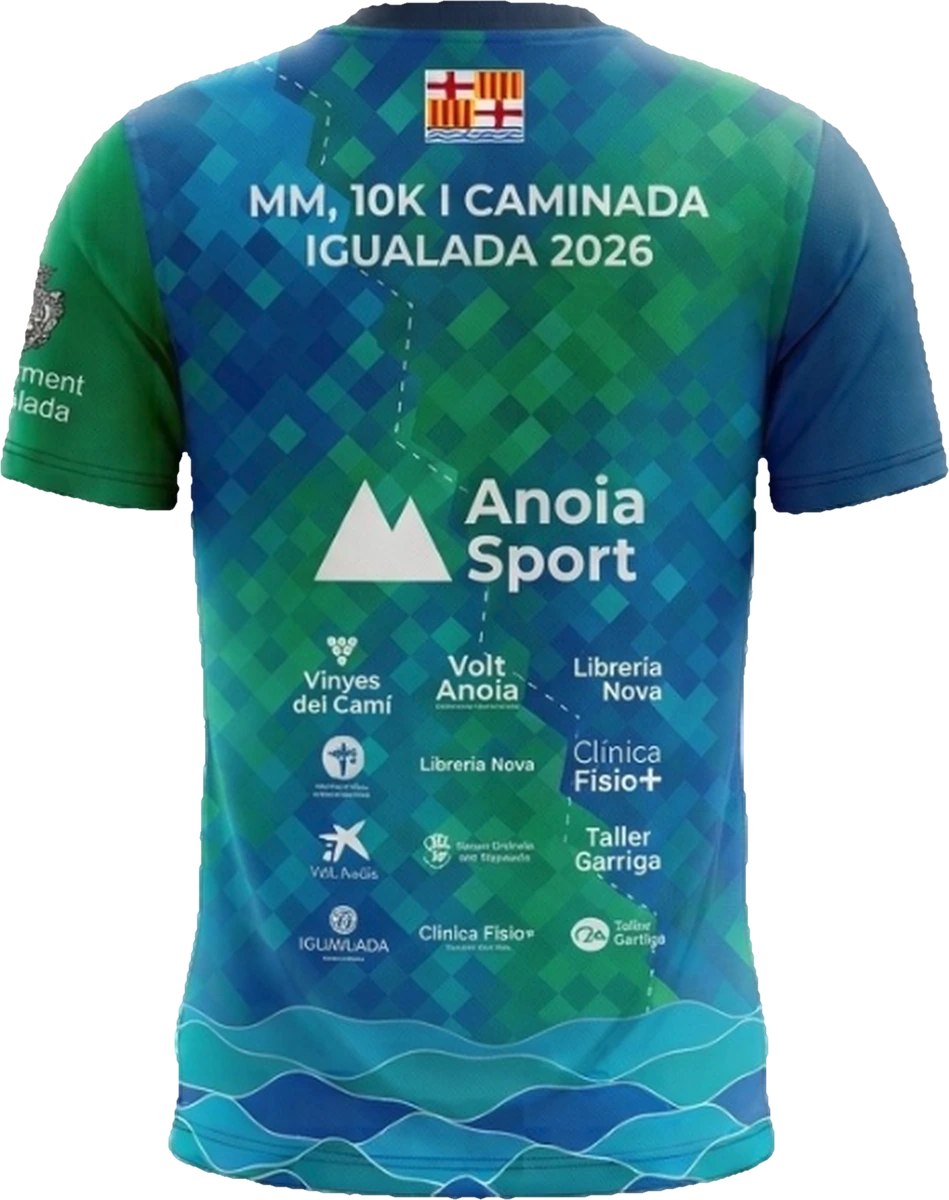
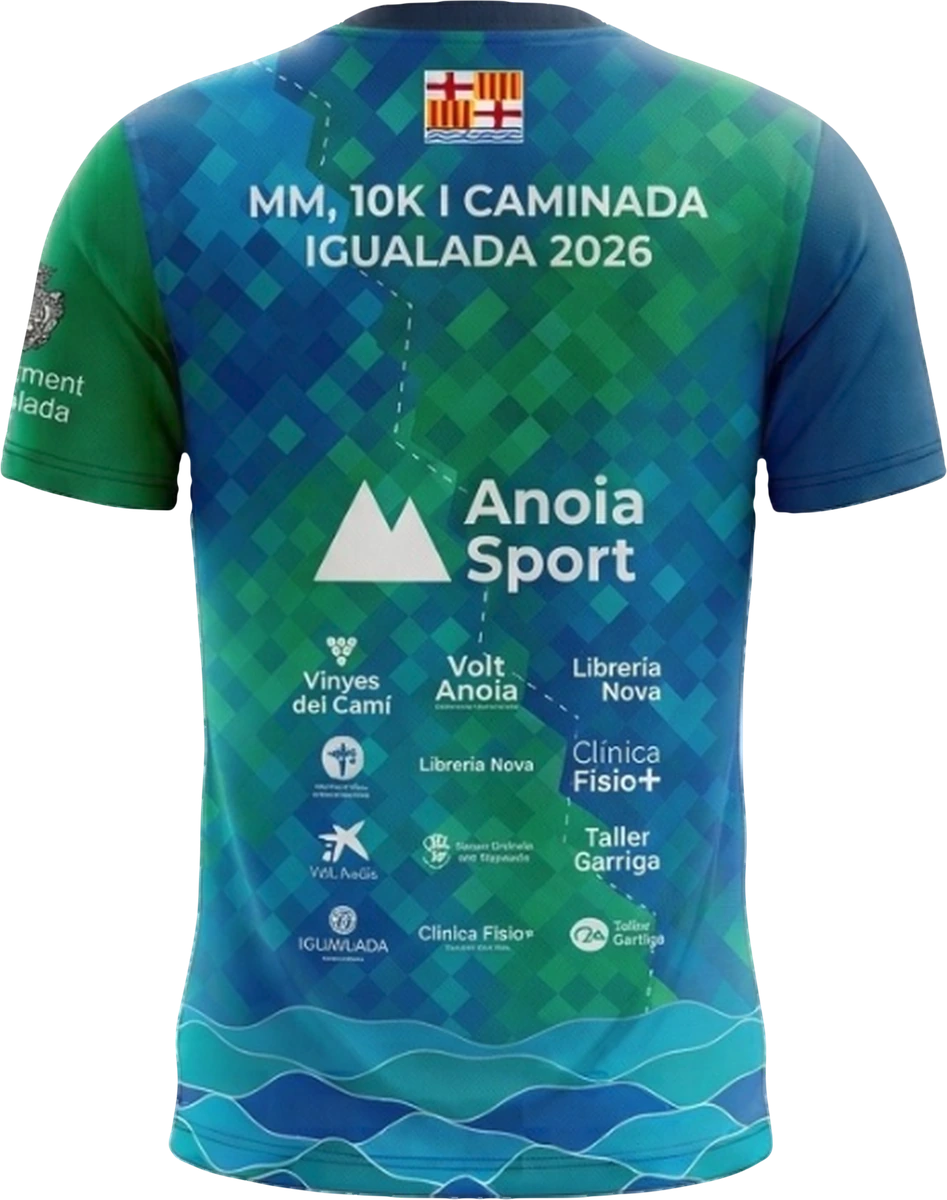
Samarreta: contorn suavitzat i vora de màniga recta a l'escut (sense queixalada ni difuminat)
El perfil ja no segueix el soroll píxel a píxel de la foto; l'escut de la màniga es manté nítid
i el fons que s'hi colava es pinta amb el blanc del mateix escut.

diff --git a/branding/samarreta/src/retalla.py b/branding/samarreta/src/retalla.py
@@ -66,8 +66,22 @@ def bg_mask(rgb: np.ndarray) -> np.ndarray:
     return bg
 
 
-def cutout(img: Image.Image) -> Image.Image:
+def smooth_sdf(fg: np.ndarray, k: float) -> np.ndarray:
+    """Distància amb signe (px de treball, + = dins) a un contorn «vectoritzat»: es treuen les
+    petites ondulacions del perfil (soroll de la foto) però es conserven cantonades i escletxes.
+    k = px de treball per px de la foto de davant (referència d'escala)."""
+    sdf = ndi.distance_transform_edt(fg) - ndi.distance_transform_edt(~fg)
+    sdf = np.where(fg, sdf - 0.5, sdf + 0.5)
+    soft, fine = ndi.gaussian_filter(sdf, 7 * k), ndi.gaussian_filter(sdf, 1.2 * k)
+    # on les dues versions discrepen hi ha una forma real (cantonada, punta, aixella): allà mana la fina
+    w = np.clip((np.abs(soft - fine) - 1.0 * k) / (1.5 * k), 0, 1)
+    w = ndi.gaussian_filter(ndi.maximum_filter(w, size=int(6 * k) | 1), 3 * k)
+    return soft * (1 - w) + fine * w
+
+
+def cutout(img: Image.Image, ref_h: float) -> Image.Image:
     rgb = np.asarray(img.convert('RGB'))
+    a = rgb.astype(np.float32)
     fg = ~bg_mask(rgb)
     # només la peça principal, sense forats interiors (logos blancs) ni brossa solta
     lab, n = ndi.label(fg)
@@ -76,29 +90,76 @@ def cutout(img: Image.Image) -> Image.Image:
         fg = lab == (1 + int(np.argmax(sizes)))
     fg = ndi.binary_fill_holes(fg)
     fg = ndi.binary_opening(fg, iterations=1)
+    s = fg.any(1).sum() / ref_h                              # escala respecte a la foto de davant
+    # escuts que sobresurten de la vora de la màniga (a la foto queden tallats i esfilagarsats, i el
+    # perfil hi feia una queixalada): en aquell tram la vora passa a ser l'envolupant convexa, de
+    # l'espatlla al puny. El que s'afegeix es pinta després amb el color interior més proper.
+    fg0 = fg.copy()
+    r = int(round(10 * s))
+    yy, xx = np.ogrid[-r:r + 1, -r:r + 1]
+    bump = fg & ~ndi.binary_opening(fg, yy * yy + xx * xx <= r * r)
+    white = (a.max(2) - a.min(2) < 28) & (a.mean(2) > 190)
+    lab, n = ndi.label(bump)
+    H, W = fg.shape
+    crests = [sl for i, sl in enumerate(ndi.find_objects(lab), 1)
+              if (lab[sl] == i).sum() >= 20 * s * s and white[sl][lab[sl] == i].mean() >= 0.2]
+    for sl in crests:                                         # 1) fora el sortint esfilagarsat
+        fg[sl] &= ~(lab[sl] > 0)
+    for sl in crests:                                         # 2) vora recta/convexa d'espatlla a puny
+        left = (sl[1].start + sl[1].stop) / 2 < W / 2
+        edge = np.where(fg.any(1), fg.argmax(1) if left else W - 1 - fg[:, ::-1].argmax(1), -1)
+        y0, y1 = max(sl[0].start - int(30 * s), 0), sl[0].stop
+        while edge[y0] < 0:
+            y0 += 1
+        while y1 < H - 1 and edge[y1 + 1] >= 0 and abs(edge[y1 + 1] - edge[y1]) <= 8 * s:
+            y1 += 1                                           # fins a la cantonada del puny
+        ys = np.arange(y0, y1 + 1)
+        xs = (edge[ys] if left else -edge[ys]).astype(float)
+        hull = []                                             # envolupant inferior de x(y)
+        for q in zip(ys, xs):
+            while len(hull) >= 2 and (hull[-1][0] - hull[-2][0]) * (q[1] - hull[-2][1]) - (hull[-1][1] - hull[-2][1]) * (q[0] - hull[-2][0]) <= 0:
+                hull.pop()
+            hull.append(q)
+        hx = np.interp(ys, [h[0] for h in hull], [h[1] for h in hull])
+        for y, x in zip(ys, hx):
+            if left:
+                fg[y, int(round(x)):edge[y]] = True
+            else:
+                fg[y, edge[y]:int(round(-x)) + 1] = True
+    fg = ndi.binary_fill_holes(fg)
+    # 3) dins l'escut, el fons que s'hi havia colat (gris clar) es pinta amb el blanc del mateix escut,
+    #    i la resta es deixa tal com és a la foto: nítid, sense repintar ni difuminar
+    if crests:
+        zone = np.zeros_like(fg)
+        for sl in crests:
+            zone[sl] |= lab[sl] > 0
+        zone = ndi.binary_dilation(zone, yy * yy + xx * xx <= r * r)
+        solid = ndi.binary_erosion(fg0)
+        near = ndi.distance_transform_edt(~solid, return_distances=False, return_indices=True)
+        whitish = (a.max(2) - a.min(2) < 40) & (a.mean(2) > 150)
+        rows = np.zeros_like(fg)
+        for sl in crests:
+            rows[sl[0]] = True                                # a l'alçada de l'escut, tot el que queda dins la vora
+        paint = zone & fg & ~solid & (a.max(2) - a.min(2) < 28) & (a.mean(2) > np.where(rows, 105, 170)) & (whitish[near[0], near[1]] | rows)
+        rgb = rgb.copy()
+        rgb[paint] = np.median(a[white & zone & solid], axis=0)
+        img = Image.fromarray(rgb)
+        fg0 = fg0 | paint
 
     big = img.convert('RGB').resize((img.width * UP, img.height * UP), Image.LANCZOS)
     c = np.asarray(big).astype(np.float32)
-    m = np.asarray(Image.fromarray((fg * 255).astype(np.uint8)).resize(big.size, Image.BICUBIC)).astype(np.float32) / 255
-    d_raw = ndi.distance_transform_edt(m > 0.5)             # distància al fons real (sense suavitzar)
-    m = ndi.gaussian_filter(m, UP * 0.9)                    # contorn suau, sense escales
-    d_in = ndi.distance_transform_edt(m > 0.5)              # px (a x3) cap endins
-    # el suavitzat tanca les escletxes fines de fons (aixella entre màniga i cos): d_raw les manté obertes
-    d_in = np.minimum(d_in, d_raw + UP * 0.5)
-    inset, feather = UP * 1.1, UP * 0.9
-    alpha = np.clip((d_in - inset) / feather, 0, 1)
+    m = np.asarray(Image.fromarray((fg * 255).astype(np.uint8)).resize(big.size, Image.BICUBIC)) > 127
+    k = UP * s
+    d_raw = ndi.distance_transform_edt(m)                    # distància a la vora (sense suavitzar)
+    m0 = np.asarray(Image.fromarray((fg0 * 255).astype(np.uint8)).resize(big.size, Image.BICUBIC)) > 127
+    d_fab = ndi.distance_transform_edt(m0)                   # distància al fons real de la foto
+    d_in = np.minimum(smooth_sdf(m, k), d_raw + 0.5 * k)     # mai més enfora que la peça real
+    px = fg.any(1).sum() * UP / H_OUT                        # 1 px final, en px de treball
+    inset, feather = 1.3 * k, 1.5 * px
+    alpha = np.clip((d_in - inset) / feather + 0.5, 0, 1)
     alpha = alpha * alpha * (3 - 2 * alpha)
-    safe = d_in > inset + feather + UP * 0.6
-    # espurnes clares soltes enganxades a la vora (punta de l'escletxa de l'aixella): no són tela,
-    # així que no poden fer de color «segur» i es repinten amb la tela del costat
-    light = (c.max(2) - c.min(2) < 50) & (c.mean(2) > 75) & (m > 0.5)   # gris: fons barrejat amb ombra
-    lab, n = ndi.label(light)
-    if n:
-        ids = np.arange(1, n + 1)
-        small = ndi.sum(light, lab, ids) < 9 * UP * UP
-        edge = ndi.minimum(d_in, lab, ids) < UP * 4
-        safe &= ~ndi.binary_dilation(np.isin(lab, ids[small & edge]), iterations=UP)
     # descontaminació: a la franja de vora, el color ve del píxel interior segur més proper
+    safe = d_fab > inset + 0.9 * k
     idx = ndi.distance_transform_edt(~safe, return_distances=False, return_indices=True)
     c = np.where(safe[..., None], c, c[idx[0], idx[1]])
     out = np.dstack([c, alpha * 255]).round().clip(0, 255).astype(np.uint8)
@@ -123,7 +184,7 @@ def main():
     }
     meta = {}
     for name in ('front', 'back', 'side-l', 'side-r'):
-        im = fit(cutout(views[name]))
+        im = fit(cutout(views[name], 580))
         im.save(OUT / f'{name}.webp', quality=92, alpha_quality=100, method=6)
         meta[name] = {'w': im.width, 'h': im.height}
         print(name, im.size)
